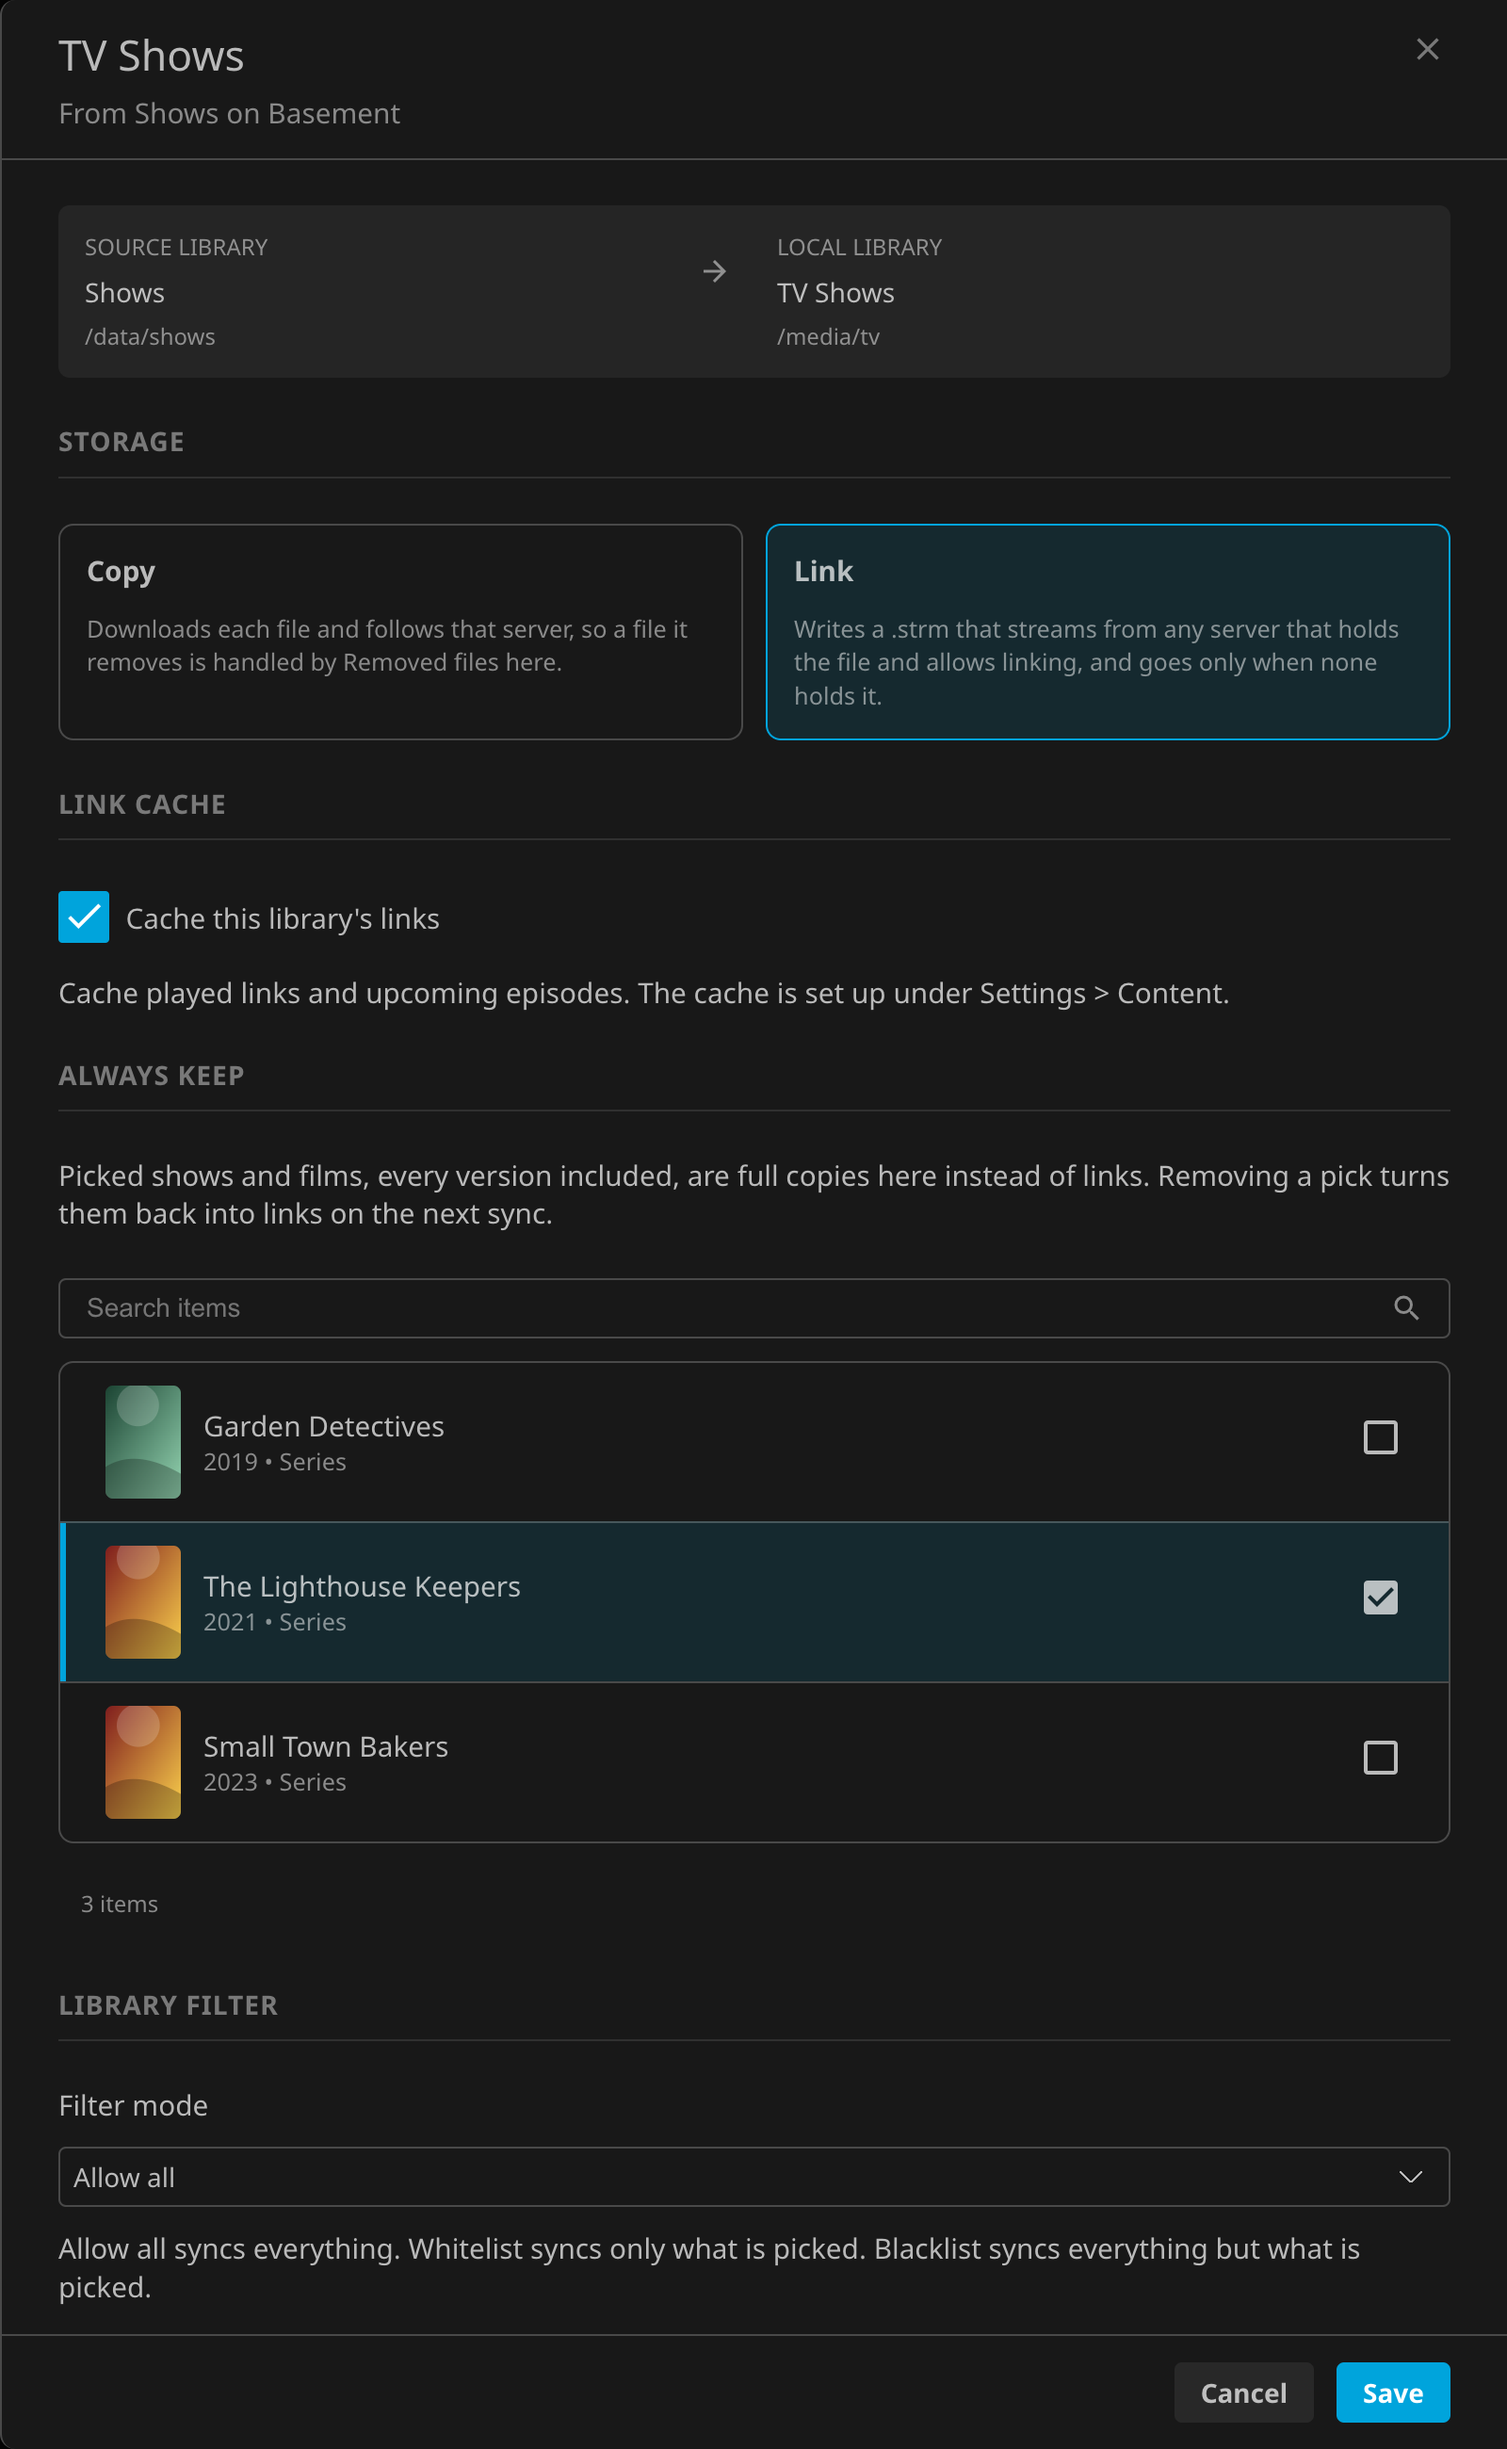
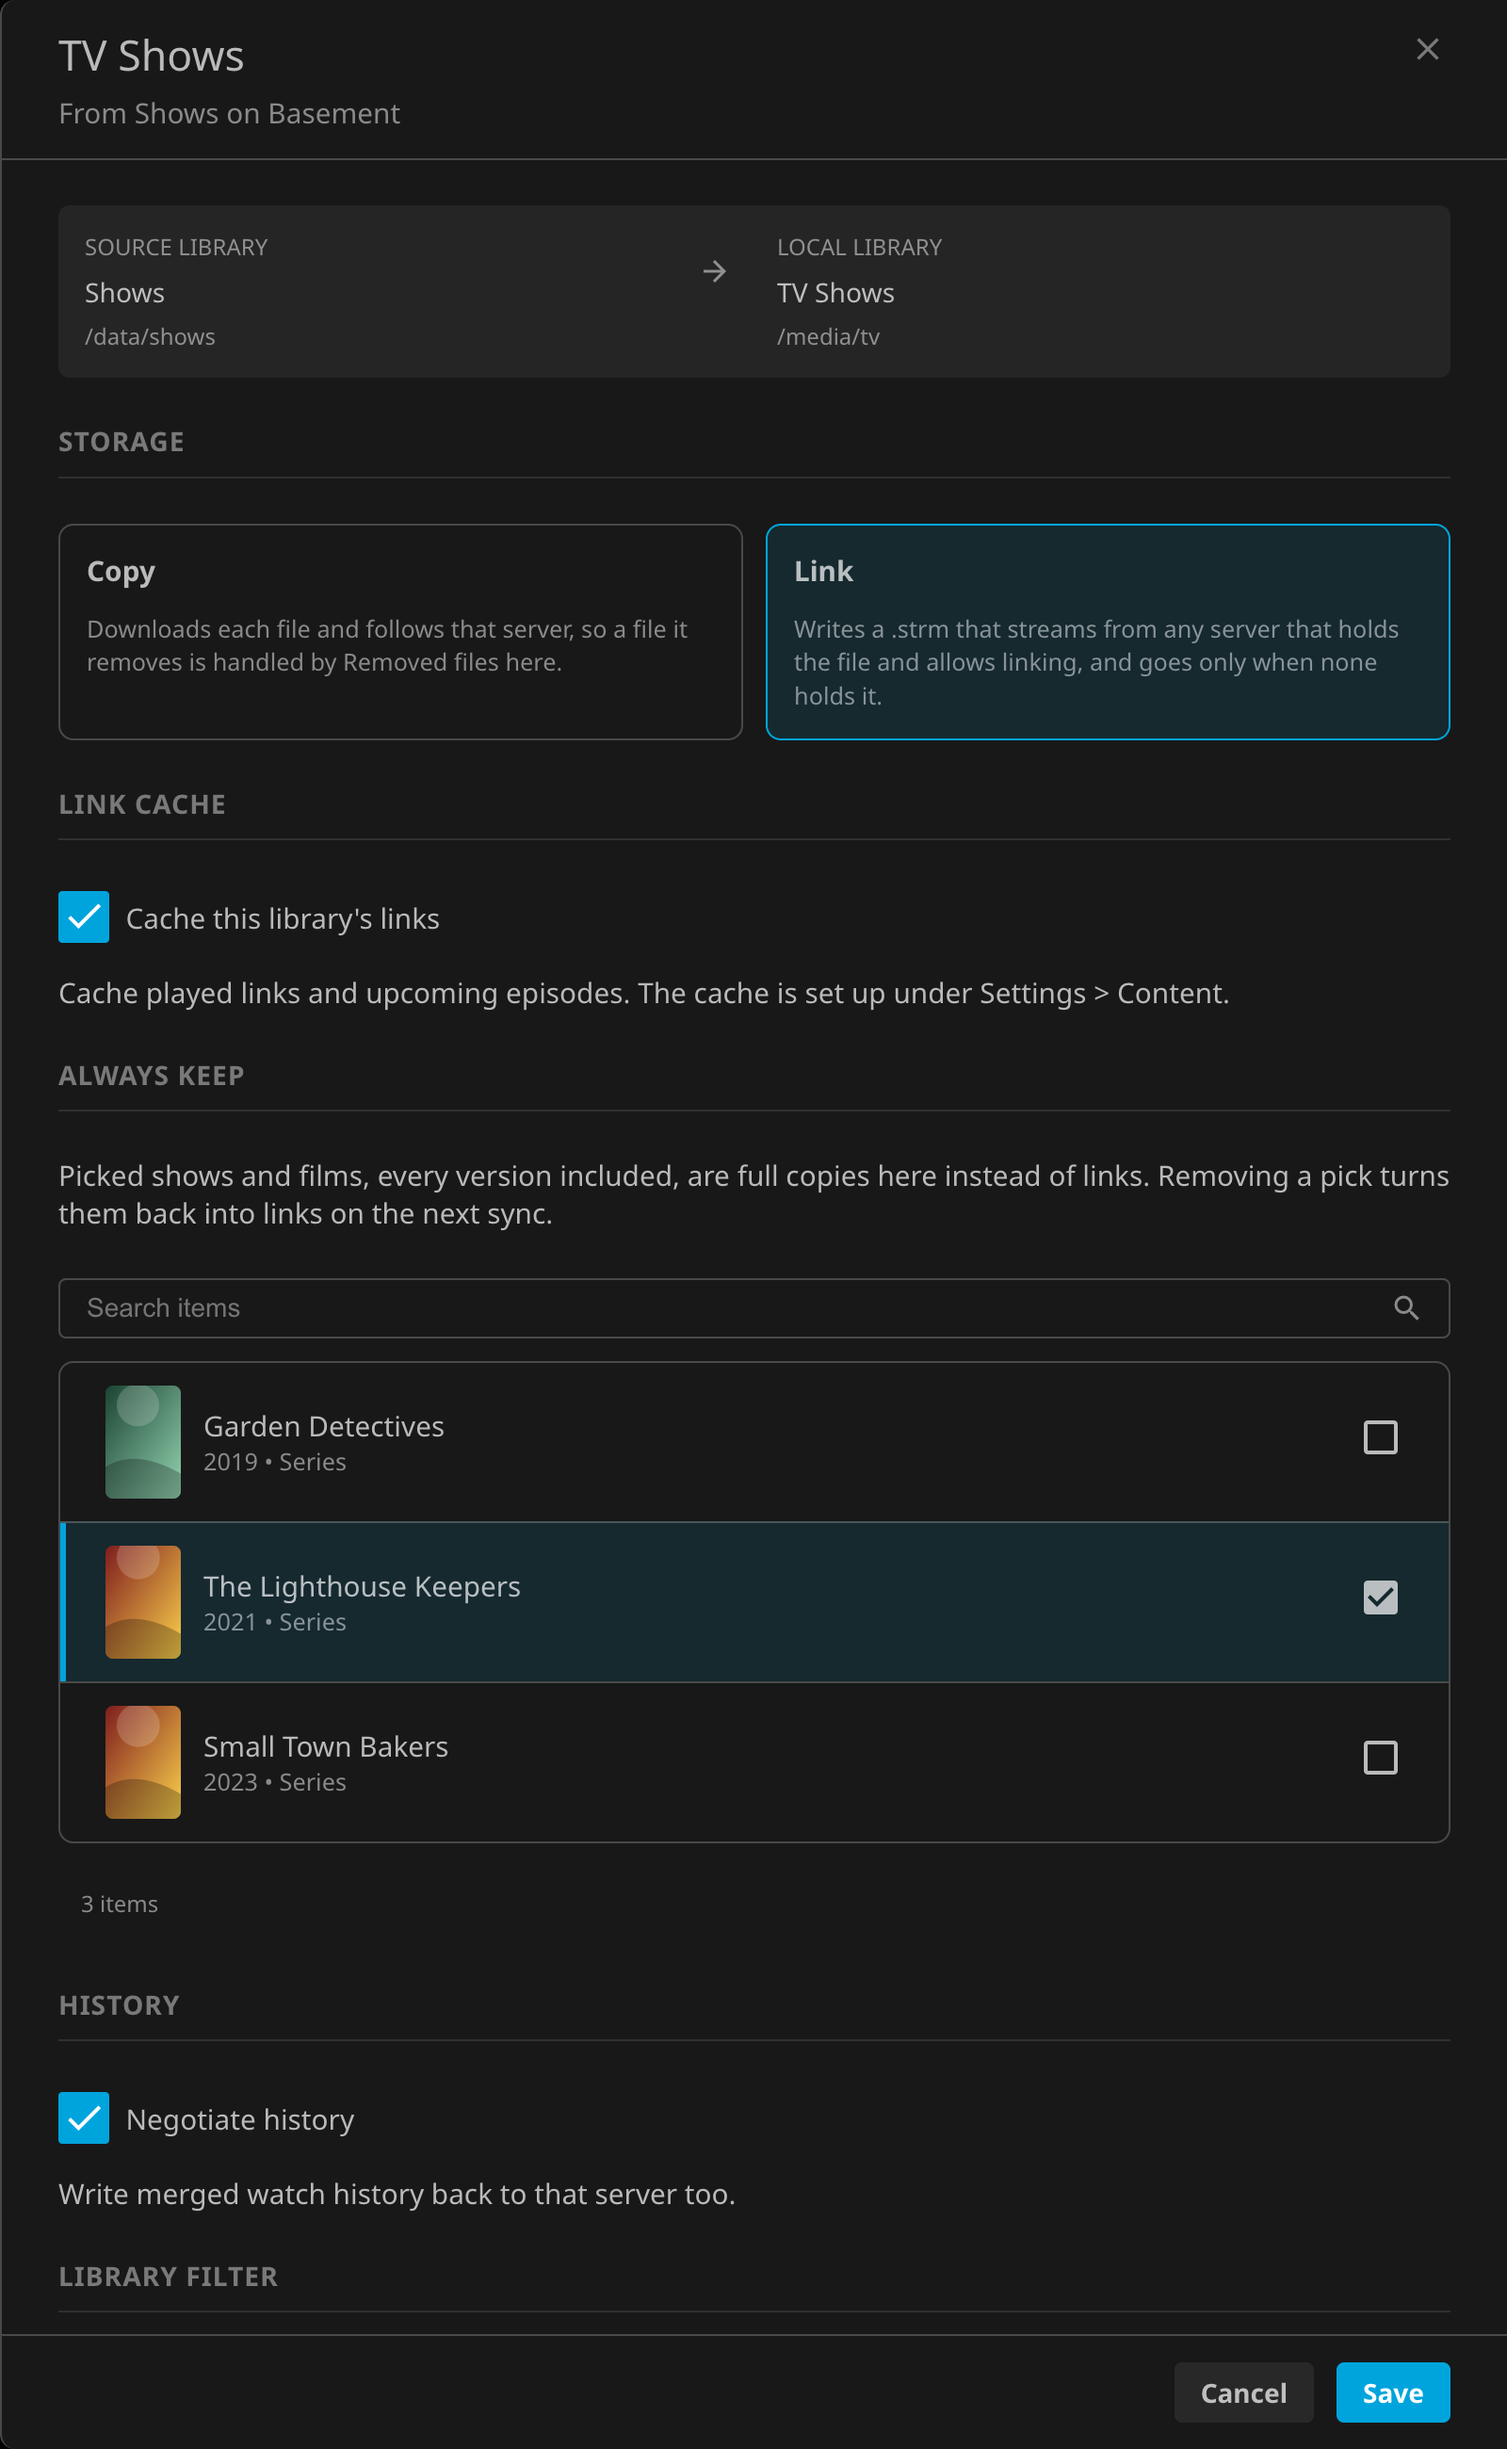
history above the filter, drop the lone card

Changed region(s): [[0.0312, 0.81, 0.4688, 0.9346]]

diff --git a/Jellyfin.Plugin.Zooid/Web/zooid_storage.js b/Jellyfin.Plugin.Zooid/Web/zooid_storage.js
@@ -105,8 +105,8 @@ export function countFor(counts, mapping) {
 }
 
 // summaryCards
-// The count cards at the top of the page, for the picked server's enabled library mappings. With content sync off
-// only the library count means something, and before the counts arrive only it shows.
+// The count cards at the top of the page, for the picked server's enabled library mappings. They show only with
+// content sync on and the counts in, since a library count alone says nothing the library list below does not.
 //
 // Inputs
 // mappings [object[]]: The enabled library mappings.
@@ -118,8 +118,8 @@ export function countFor(counts, mapping) {
 // Output
 // [object[]]: The cards, as renderCards takes them.
 export function summaryCards(mappings, counts, contentOn, t, formatSize) {
+    if (!contentOn || !counts) return [];
     var cards = [{ count: mappings.length, label: t.tr('HeaderLibraries') }];
-    if (!contentOn || !counts) return cards;
     var sum = { Copies: 0, Links: 0, CachedLinks: 0, Errored: 0, CopyBytes: 0 };
     mappings.forEach(function (mapping) {
         var c = countFor(counts, mapping);
@@ -480,7 +480,11 @@ export default function (view) {
         var entries = enabledMappings(server);
         var list = getEl('storageLibraryList');
         var summary = getEl('storageSummary');
-        if (summary) ZooidShared.renderCards(summary, summaryCards(entries.map(function (e) { return e.mapping; }), counts, contentOn, ZooidShared.t, ZooidShared.formatSize));
+        if (summary) {
+            var cards = summaryCards(entries.map(function (e) { return e.mapping; }), counts, contentOn, ZooidShared.t, ZooidShared.formatSize);
+            summary.classList.toggle('stolon-hidden', cards.length === 0);
+            if (cards.length) ZooidShared.renderCards(summary, cards);
+        }
         setVisible('storageNoLibraries', !!server && entries.length === 0);
         setVisible('storageLibraryList', entries.length > 0);
         if (!server || !list) return;
@@ -640,6 +644,16 @@ export default function (view) {
             body.appendChild(permanentSection);
         }
 
+        // Only a Sync server writes history back, so only its libraries offer negotiation, while history sync is on.
+        var negotiate = null;
+        if (negotiable) {
+            var historySection = zooidModule.make('div', 'stolon-stack');
+            historySection.appendChild(zooidModule.make('h3', 'stolon-subsection-title', null, tr('SyncTypeHistory')));
+            negotiate = zooidModule.createCheckboxField({ label: tr('LabelNegotiateHistory'), help: tr('HelpNegotiateHistory'), checked: !!mapping.NegotiateHistory });
+            historySection.appendChild(negotiate.element);
+            body.appendChild(historySection);
+        }
+
         // The library filter applies to content, history, and metadata.
         var filterSection = zooidModule.make('div', 'stolon-stack');
         filterSection.appendChild(zooidModule.make('h3', 'stolon-subsection-title', null, tr('HeaderLibraryFilter')));
@@ -672,16 +686,6 @@ export default function (view) {
         filterSection.appendChild(filterBrowser);
         body.appendChild(filterSection);
         if (filterMode.input) filterMode.input.addEventListener('change', updateFilterSection);
-
-        // Only a Sync server writes history back, so only its libraries offer negotiation, while history sync is on.
-        var negotiate = null;
-        if (negotiable) {
-            var historySection = zooidModule.make('div', 'stolon-stack');
-            historySection.appendChild(zooidModule.make('h3', 'stolon-subsection-title', null, tr('SyncTypeHistory')));
-            negotiate = zooidModule.createCheckboxField({ label: tr('LabelNegotiateHistory'), help: tr('HelpNegotiateHistory'), checked: !!mapping.NegotiateHistory });
-            historySection.appendChild(negotiate.element);
-            body.appendChild(historySection);
-        }
 
         function filterModeValue() {
             return (filterMode.input ? filterMode.input.value : mapping.FilterMode) || 'AllowAll';

diff --git a/docs/Setup.md b/docs/Setup.md
@@ -111,9 +111,9 @@ Add each other server the same way. Their order in the list is their rank. For m
 | :--- | :--- |
 | ![Storage](screenshots/settings/Storage.png) | ![Storage on a phone](screenshots/settings/Storage%20Phone.png) |
 
-Open **Storage**. With more than one server mapping libraries, a tab for each picks the server. Cards at the top count its libraries, copies, links, cached links, the space its copies use, and any errored files. Below them, each enabled library mapping has a row with the icon of its library type, the library it fills, the source library, its **Storage** as a **Copy** or **Link** badge, what it holds, and anything waiting or failed. With no library mapped yet, **Map libraries** opens the **Servers** page.
+Open **Storage**. With more than one server mapping libraries, a tab for each picks the server. With content sync on, cards at the top count its libraries, copies, links, cached links, the space its copies use, and any errored files. Below them, each enabled library mapping has a row with the icon of its library type, the library it fills, the source library, its **Storage** as a **Copy** or **Link** badge, what it holds, and anything waiting or failed. With no library mapped yet, **Map libraries** opens the **Servers** page.
 
-Select a row to edit that library in a side panel, then select **Save**. The panel shows the two libraries and their root folders above the settings. With content sync off, only the library count, the filter, and the history setting show.
+Select a row to edit that library in a side panel, then select **Save**. The panel shows the two libraries and their root folders above the settings. With content sync off, the page shows no cards, and the panel shows only the history setting and the filter.
 
 ![Storage library](screenshots/settings/Storage%20Library.png)
 
@@ -122,8 +122,8 @@ Select a row to edit that library in a side panel, then select **Save**. The pan
 | **Storage** | **Copy** downloads each file and follows that server, so a file it removes is handled by **Removed files** here. **Link** writes a `.strm` that streams from any server that holds the file, and goes only when none holds it. See [Links](Links.md) |
 | **Link cache** | For a Link library, **Cache this library's links** keeps played links and upcoming episodes in the link cache |
 | **Always keep** | For a Link library, the shows and films that are full copies instead of links |
-| **Library filter** | **Filter mode** syncs everything, or only what is picked, or everything but what is picked. It applies to content, history, and metadata. See [Content](Content.md#collection-syncing) |
 | **Negotiate history** | For a Sync server with history sync on, writes merged watch history back to that server. See [History](History.md) |
+| **Library filter** | **Filter mode** syncs everything, or only what is picked, or everything but what is picked. It applies to content, history, and metadata. See [Content](Content.md#collection-syncing) |
 
 Below the rows, **Content** lists every file that server syncs here, with its library, its size, and a badge for how it is kept: **Copied**, **Linked**, or **Cached** for a link whose file is in the link cache. A full copy in a Link library also shows as **Copied**, and the badge says why on hover. A file that is not synced also shows its status, and a cached link shows when it was last played. Search by name, and filter by **All**, **Copied**, **Linked**, or **Cached**. While a library links, a **Link cache** bar above the table shows how much of the cache is used.
 
